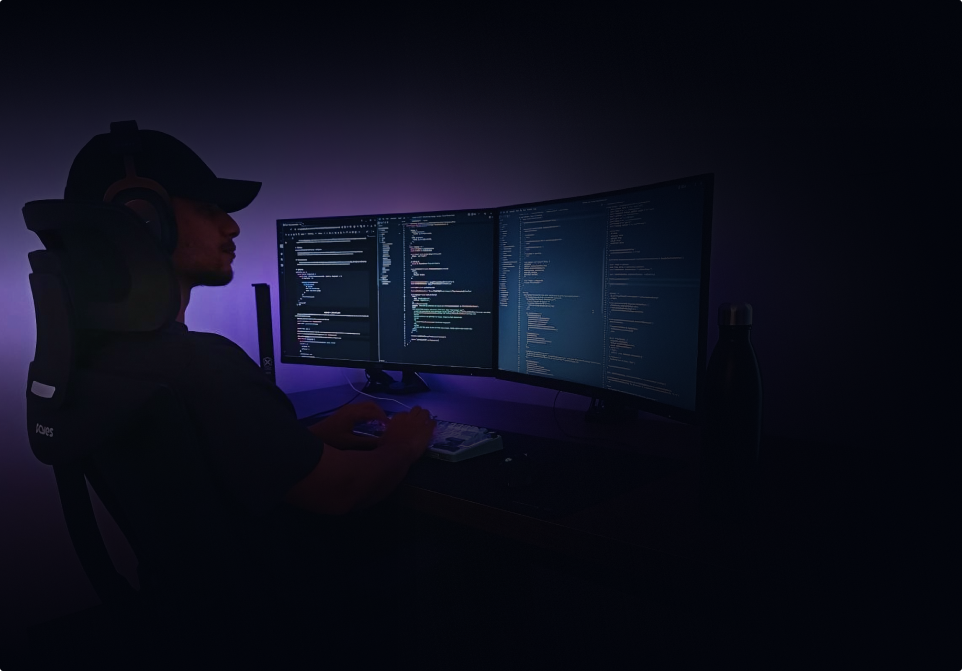
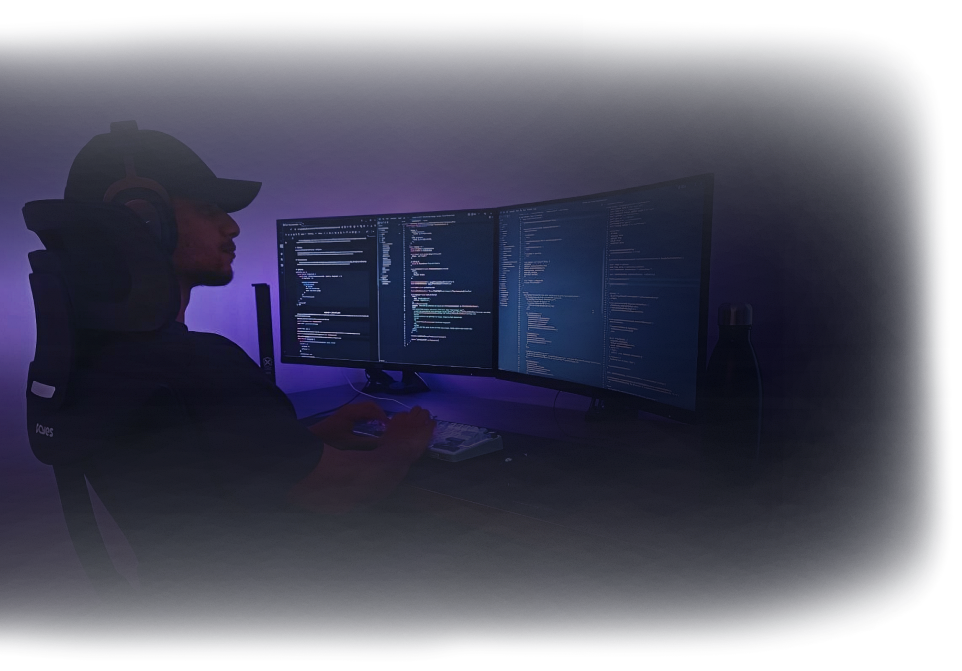
add tools and skills to about and change photo

diff --git a/src/portfolio.tsx b/src/portfolio.tsx
@@ -5,13 +5,19 @@ import aboutPhoto from "./assets/about-photo.png"
 import { Header } from "./sections/header";
 import { Home } from "./sections/home";
 
+import jsIcon from "./assets/javascript.svg"
+import tsIcon from "./assets/typescript.svg"
+import reactIcon from "./assets/react.svg"
+import viteIcon from "./assets/vite.svg"
+import tailwindIcon from "./assets/tailwind.svg"
+
 export function Portfolio() {
 
 
   return (
     <div className="flex items-center flex-col ">
       <Header />
-      
+
       <main className="relative w-[1920px] max-w-full ring-border ring-2 z-10 bg-bg-color overflow-x-hidden ">
         <Home />
 
@@ -37,7 +43,7 @@ export function Portfolio() {
 
         {/* about */}
         <div id="about" className="relative h-fit flex flex-col items- my-12 z-0   ">
-          <div className="absolute top-0 right-0 flex justify-center items-center font-bold text-sm h-9 min-w-36 w-[34vw] max-w-64 -mr-[1px] rounded-l-full pr-3 z-10 transition-all ease-linear
+          <div className="absolute top-0 right-0 flex justify-center items-center font-bold text-sm h-9 min-w-36 w-[34vw] max-w-64 mt-6 -mr-[1px] rounded-l-full pr-3 z-10 transition-all ease-linear
           bg-gradient-to-l from-indigo-900 to-indigo-600 shadow-middle-xl shadow-indigo-600
             md:text-lg  lg:right-0 
             lg:h-10 lg:text-xl
@@ -59,7 +65,7 @@ export function Portfolio() {
               lg:text-xl lg:text-center lg:w-[40vw]
               xl:w-[50vw]
             ">
-              <HandWaving className="text-indigo-500 inline animate-wave size-6  " /> Olá, sou <span className="text-indigo-500">Matheus</span>! <br/>
+              <HandWaving className="text-indigo-500 inline animate-wave size-4 sm:size-5 md:size-6 " /> Olá, sou <span className="text-indigo-500">Matheus</span>! <br/>
               Um entusiasta do código e das interfaces!
               Um <span className="text-zinc-100">desenvolvedor front-end</span> que ama transformar ideias em realidades digitais.
             </p>
@@ -74,7 +80,18 @@ export function Portfolio() {
         </div>
 
 
-
+        <div className="flex justify-center">
+          <div className="w-full border border-indigo-600/80 rounded-lg shadow-tech  shadow-indigo-700 mx-3 max-w-7xl ">
+            <h2 className="text-center text-lg my-4">Tecnologias e ferramentas</h2>
+            <div className="flex flex-wrap justify-center transition-all ease-linear gap-x-10 p-6 lg:gap-x-24 xl:gap-x-32">
+              <img src={jsIcon} alt="js" className="w-20" />
+              <img src={tsIcon} alt="ts" className="w-20" />
+              <img src={reactIcon} alt="react" className="w-20" />
+              <img src={viteIcon} alt="vite" className="w-20" />
+              <img src={tailwindIcon} alt="tailwind" className="w-20" />
+            </div>
+          </div>
+        </div>
 
 
 

diff --git a/tailwind.config.js b/tailwind.config.js
@@ -29,7 +29,8 @@ export default {
       },
       boxShadow: {
         'middle': '0px 0px 8px',
-        'middle-xl': '0px 0px 20px'
+        'middle-xl': '0px 0px 20px',
+        'tech': '0px 0px 20px, inset 0px 0px 20px'
       },
       transitionProperty: {
         'height': 'height'
